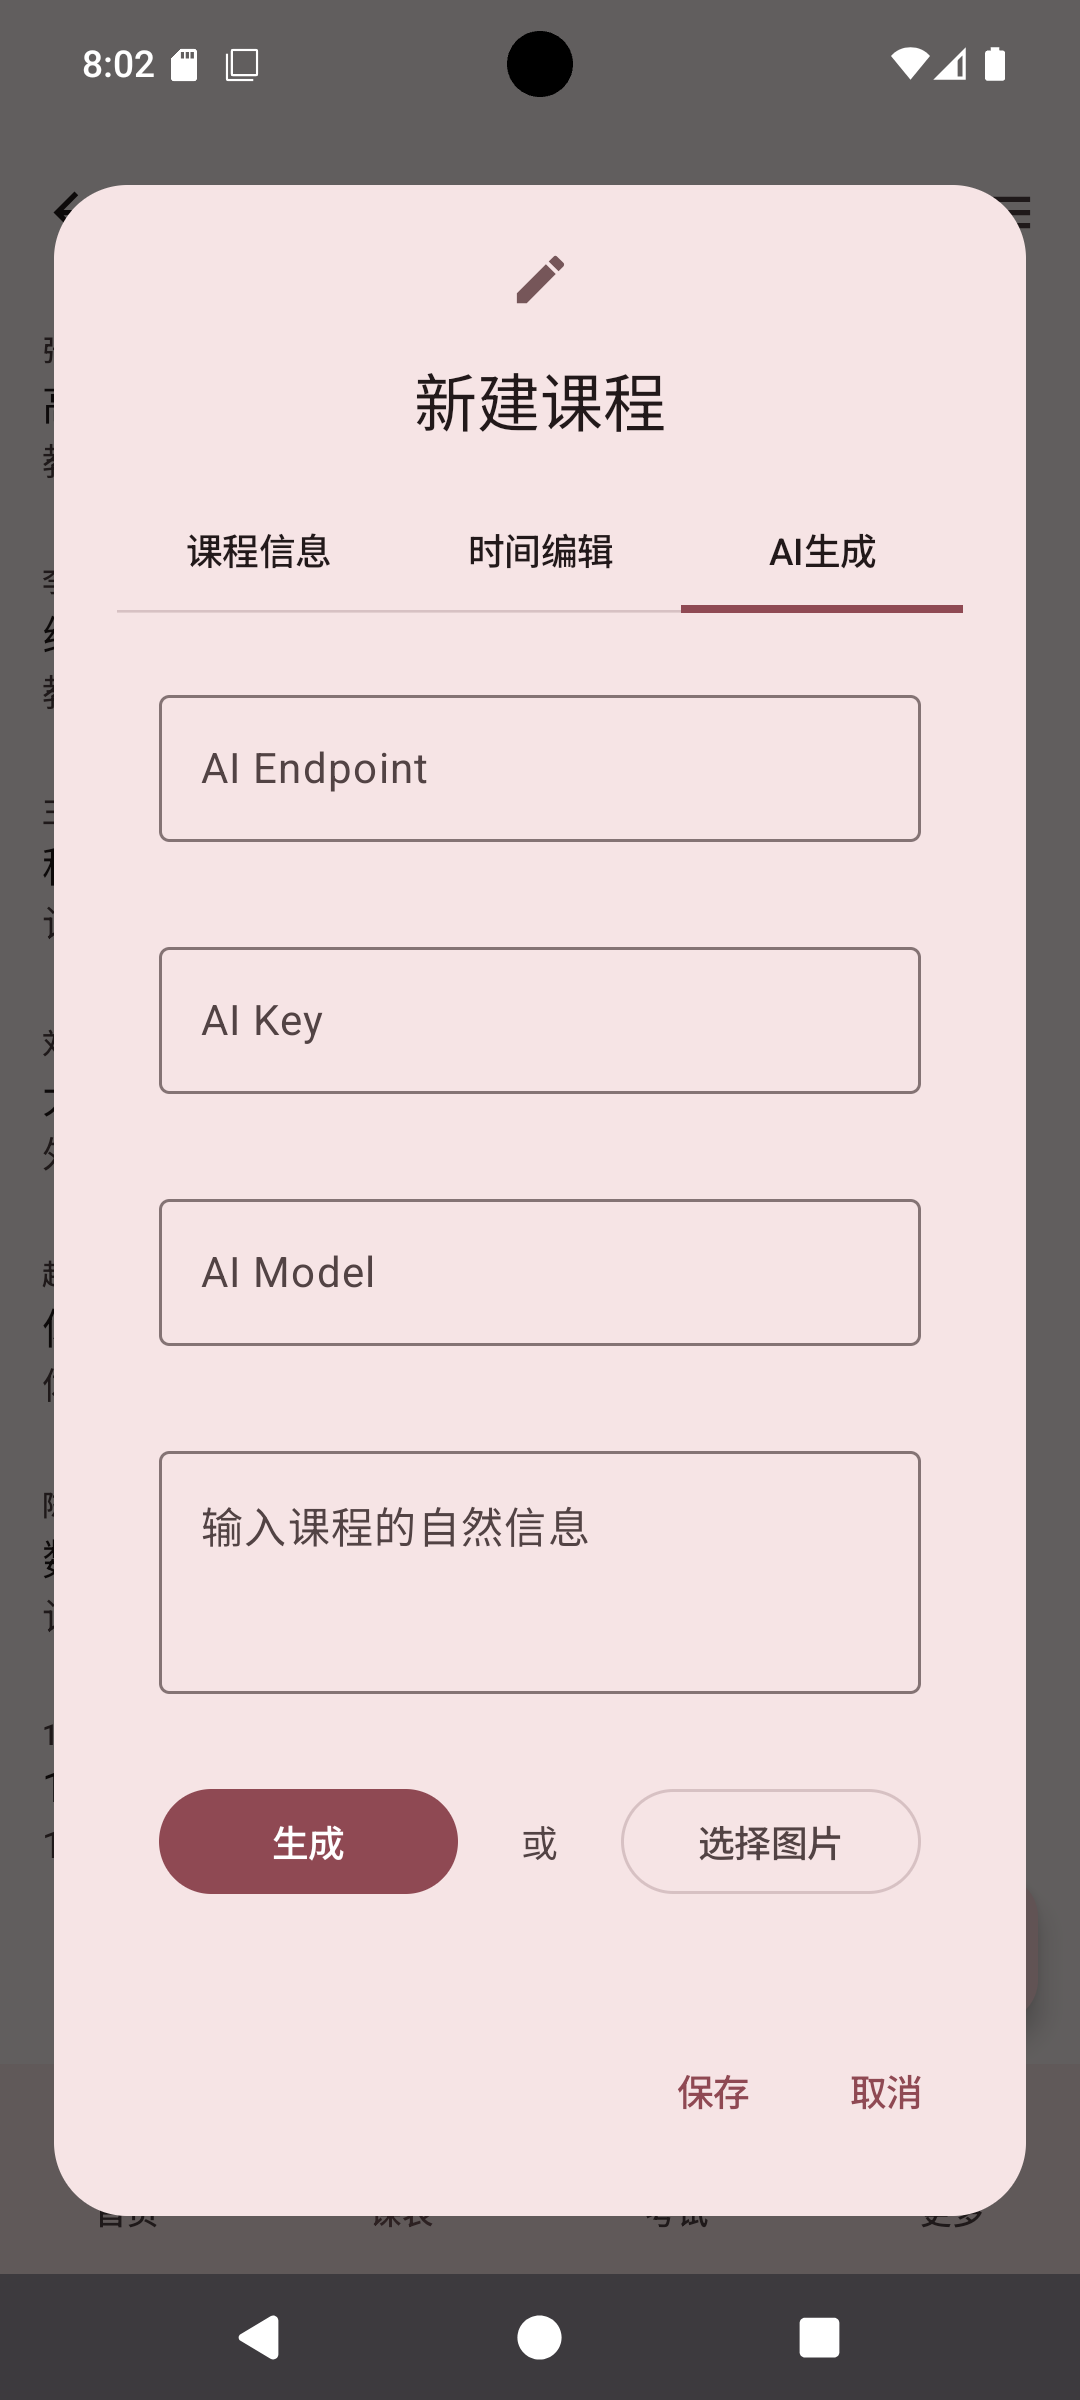
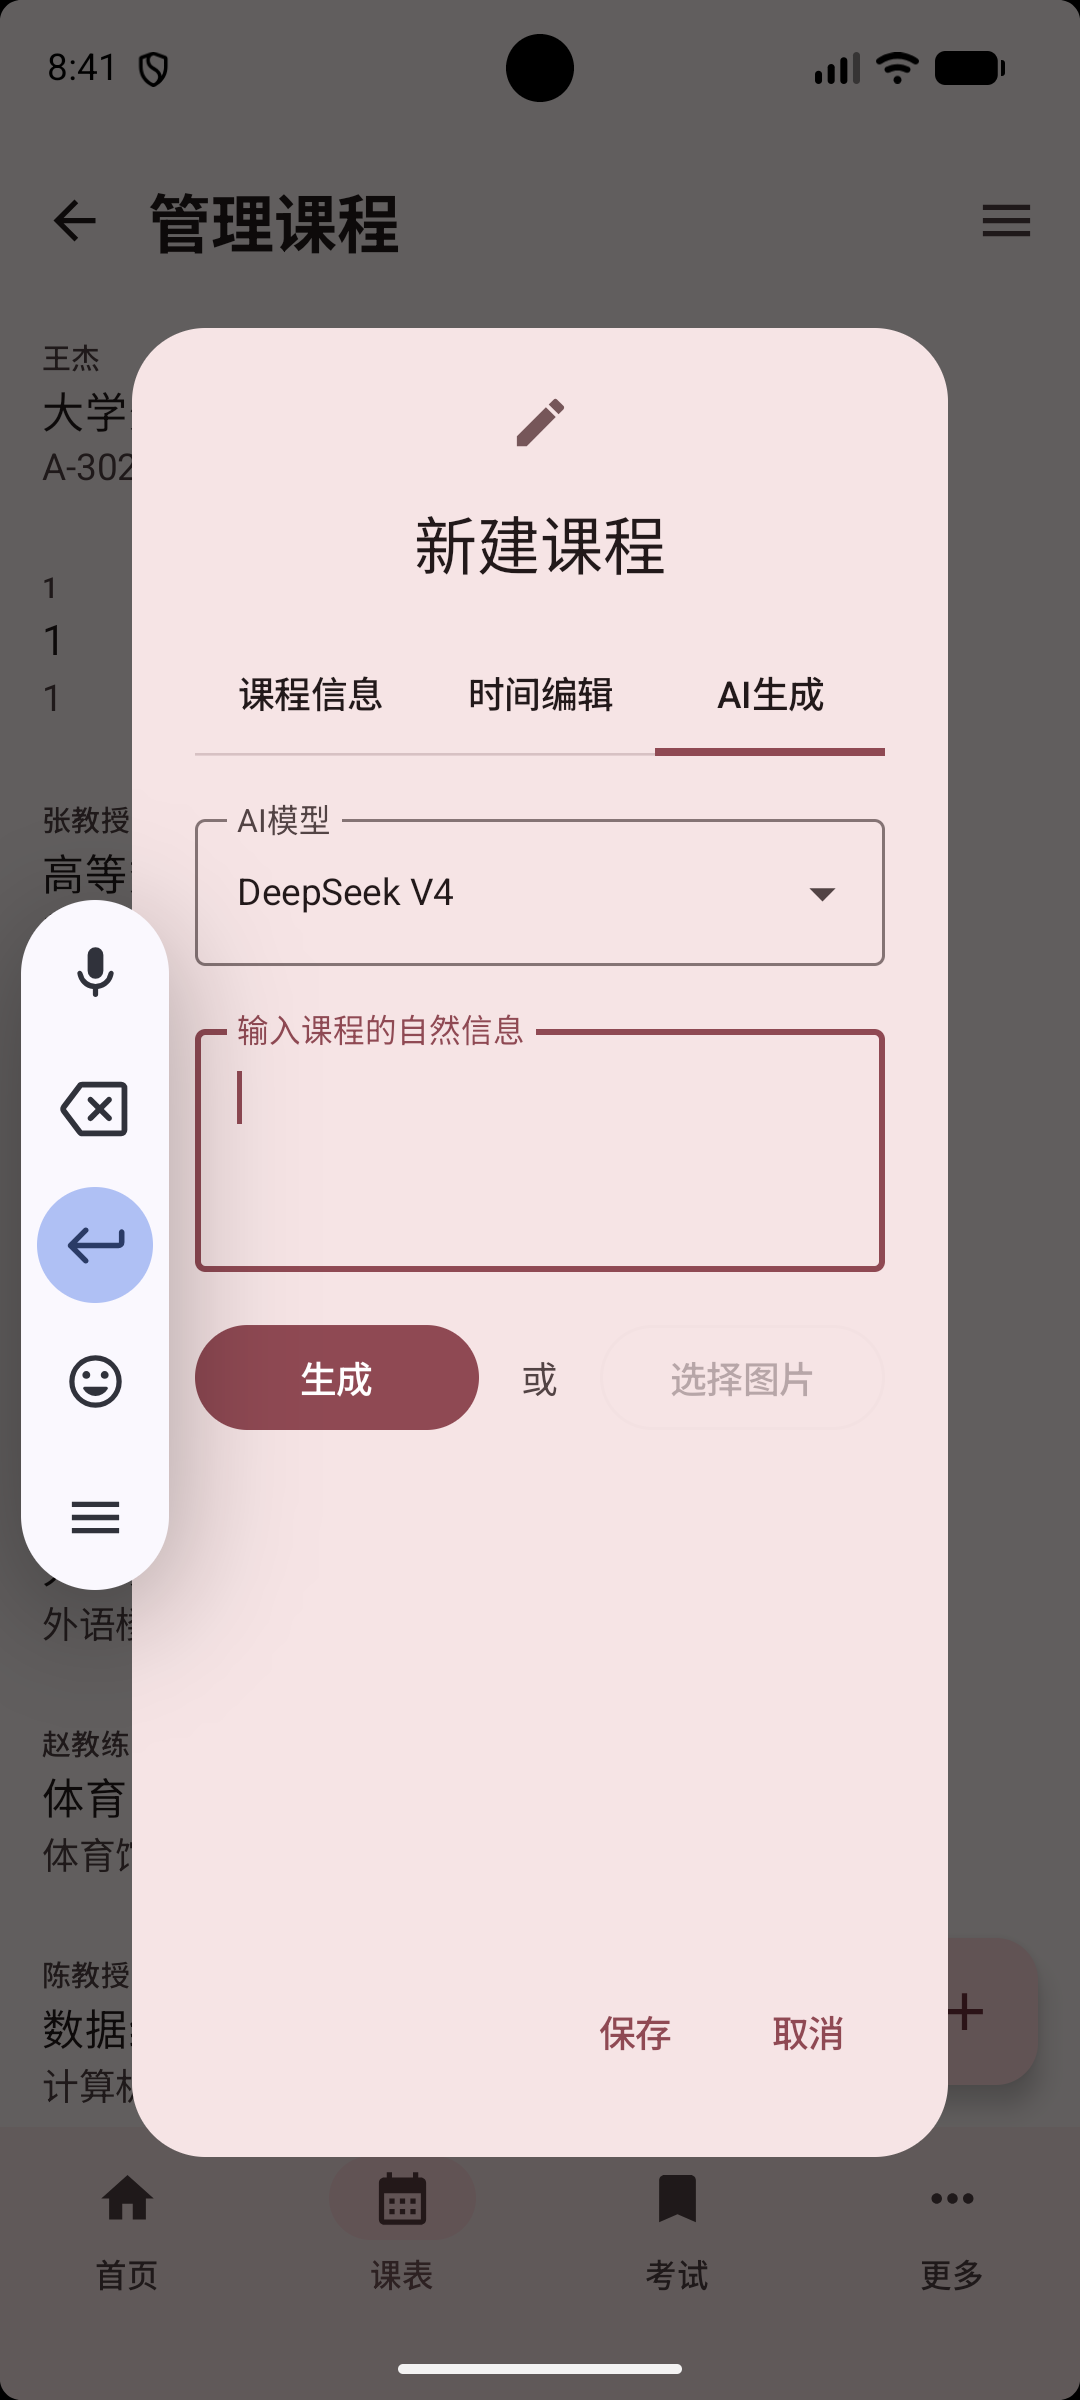
优化AI配课文本

diff --git a/composeApp/src/commonMain/kotlin/top/kagg886/eoa/pages/main/settings/list/screen.kt b/composeApp/src/commonMain/kotlin/top/kagg886/eoa/pages/main/settings/list/screen.kt
@@ -4,13 +4,14 @@ import androidx.compose.animation.AnimatedContent
 import androidx.compose.foundation.clickable
 import androidx.compose.foundation.layout.*
 import androidx.compose.foundation.rememberScrollState
-import androidx.compose.foundation.verticalScroll
 import androidx.compose.foundation.shape.CircleShape
+import androidx.compose.foundation.verticalScroll
 import androidx.compose.material.icons.Icons
 import androidx.compose.material.icons.automirrored.filled.Logout
 import androidx.compose.material.icons.filled.*
 import androidx.compose.material3.*
-import androidx.compose.runtime.*
+import androidx.compose.runtime.Composable
+import androidx.compose.runtime.getValue
 import androidx.compose.ui.Alignment
 import androidx.compose.ui.Modifier
 import androidx.compose.ui.draw.clip
@@ -26,7 +27,6 @@ import top.kagg886.eoa.LocalNavController
 import top.kagg886.eoa.component.BackIconButton
 import top.kagg886.eoa.pages.main.MainScreen
 import top.kagg886.eoa.pages.main.about.AboutRoute
-import top.kagg886.eoa.pages.main.mainViewModelOrNull
 import top.kagg886.eoa.pages.main.mainViewModelOrNull
 import top.kagg886.eoa.pages.main.settings.advanced.AdvancedSettingsRoute
 import top.kagg886.eoa.pages.main.settings.ai.AISettingsRoute
@@ -302,11 +302,11 @@ private fun SettingScreenContent(
             )
 
             ListItem(
-                headlineContent = { Text("AI设置") },
+                headlineContent = { Text("模型管理") },
                 leadingContent = {
                     Icon(
                         Icons.Default.Psychology,
-                        contentDescription = "AI设置",
+                        contentDescription = "模型管理",
                     )
                 },
                 trailingContent = {

diff --git a/composeApp/src/commonMain/kotlin/top/kagg886/eoa/pages/main/home/course/manage/edit/screen.kt b/composeApp/src/commonMain/kotlin/top/kagg886/eoa/pages/main/home/course/manage/edit/screen.kt
@@ -450,7 +450,7 @@ private fun CourseEditTime(
     }
 }
 
-@OptIn(ExperimentalMaterial3Api::class)
+@OptIn(ExperimentalMaterial3Api::class, ExperimentalMaterial3ExpressiveApi::class)
 @Composable
 private fun CourseEditAI(
     providers: List<LLMProviderEntity>,
@@ -468,7 +468,8 @@ private fun CourseEditAI(
     val providerSelectorEnabled = providers.isNotEmpty()
     val aiInputEnabled = aiGenerating == null && providerSelectorEnabled
 
-    Column(Modifier.padding(horizontal = 16.dp).verticalScroll(rememberScrollState())) {
+    Column(Modifier.verticalScroll(rememberScrollState())) {
+        Spacer(Modifier.height(16.dp))
         ExposedDropdownMenuBox(
             expanded = providerMenuExpanded,
             onExpandedChange = {
@@ -557,7 +558,7 @@ private fun CourseEditAI(
             OutlinedButton(
                 onClick = onImageCaptchaClicked,
                 modifier = Modifier.weight(1f),
-                enabled = aiGenerating == null && selectedProvider != null
+                enabled = aiGenerating == null && selectedProvider != null && selectedProvider.supportMultimodal
             ) {
                 Text(text = aiGenerating ?: "选择图片")
             }

diff --git a/composeApp/src/commonMain/kotlin/top/kagg886/eoa/pages/main/settings/ai/edit/screen.kt b/composeApp/src/commonMain/kotlin/top/kagg886/eoa/pages/main/settings/ai/edit/screen.kt
@@ -48,7 +48,7 @@ fun AISettingsEditScreen(route: AISettingsEditRoute) {
         LLMProviderEditState.Loading -> {
             DialogPageScaffold(
                 title = { Text("编辑AI模型") },
-                icon = { Icon(Icons.Default.Psychology, contentDescription = "AI设置") },
+                icon = { Icon(Icons.Default.Psychology, contentDescription = "模型管理") },
                 confirmButton = {},
                 dismissButton = {
                     TextButton(onClick = { nav.popBackStack() }) {
@@ -87,7 +87,7 @@ private fun LLMProviderEditPage(
     var modelDescription by remember(initial.uuid) { mutableStateOf(initial.modelDescription) }
 
     DialogPageScaffold(
-        icon = { Icon(Icons.Default.Psychology, contentDescription = "AI设置") },
+        icon = { Icon(Icons.Default.Psychology, contentDescription = "模型管理") },
         title = { Text(if (initial.uuid.isBlank()) "添加AI模型" else "编辑AI模型") },
         confirmButton = {
             TextButton(

diff --git a/composeApp/src/commonMain/kotlin/top/kagg886/eoa/pages/main/home/course/manage/edit/model.kt b/composeApp/src/commonMain/kotlin/top/kagg886/eoa/pages/main/home/course/manage/edit/model.kt
@@ -259,7 +259,7 @@ class CourseEditModel(
                 postSideEffect(
                     CourseEditSideEffect.Toast(
                         SnackBarType.Error,
-                        "请先在AI设置中配置模型"
+                        "请先在 '设置 / 模型管理' 中配置模型"
                     )
                 )
                 return@runOn

diff --git a/composeApp/src/commonMain/kotlin/top/kagg886/eoa/pages/main/settings/ai/list/screen.kt b/composeApp/src/commonMain/kotlin/top/kagg886/eoa/pages/main/settings/ai/list/screen.kt
@@ -67,7 +67,7 @@ private fun AISettingsContent(
     Scaffold(
         topBar = {
             TopAppBar(
-                title = { Text("AI设置") },
+                title = { Text("模型管理") },
                 navigationIcon = { BackIconButton() }
             )
         },
